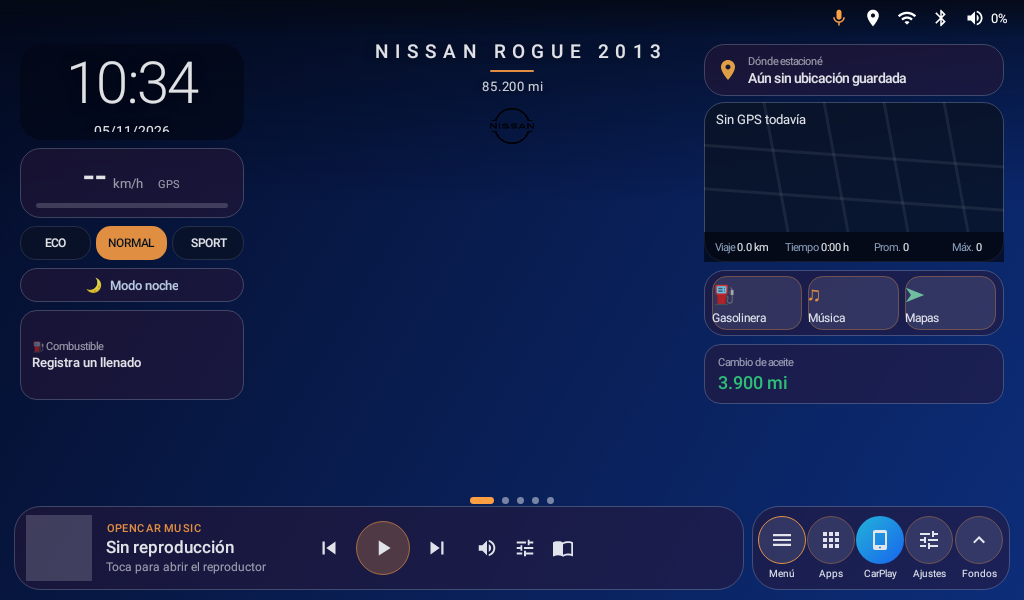
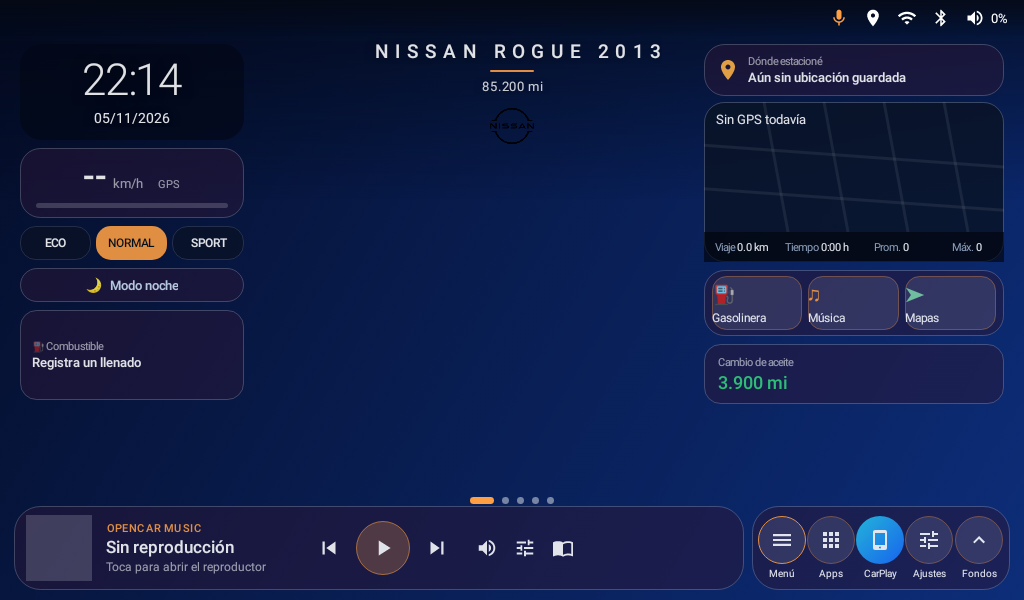
Capturas actualizadas: inicio con fecha completa, navegacion con boton Centrar y navegacion hacia el sur

Changed region(s): [[0.0625, 0.09, 0.1875, 0.24], [0.7188, 0.12, 0.9062, 0.15]]

diff --git a/README.md b/README.md
@@ -36,7 +36,7 @@ Modo noche (tema propio, calles claras sobre fondo oscuro):
 
 <img src="docs/screenshots/mapa-noche.png" alt="Mapa de noche" width="700">
 
-Navegación (ruta real calculada por el enrutador de la app sobre el mapa sin internet; el auto apunta hacia donde avanzas, el mapa gira para que siempre veas hacia adelante y los nombres de calles y lugares quedan siempre derechos, las flechas blancas marcan el sentido de la ruta y las azules las calles de un solo sentido; el banner y los paneles son una maqueta):
+Navegación (ruta real calculada por el enrutador de la app sobre el mapa sin internet; el auto apunta hacia donde avanzas, el mapa gira para que siempre veas hacia adelante y los nombres de calles y lugares quedan siempre derechos, las flechas blancas marcan el sentido de la ruta y las azules las calles de un solo sentido; el banner, los paneles y los botones son una maqueta; el botÃ³n Â«CentrarÂ» aparece al mover el mapa y, si lo dejas unos segundos, el mapa vuelve solo a encuadrar tu posiciÃ³n y la ruta):
 
 | Día | Noche |
 |---|---|
